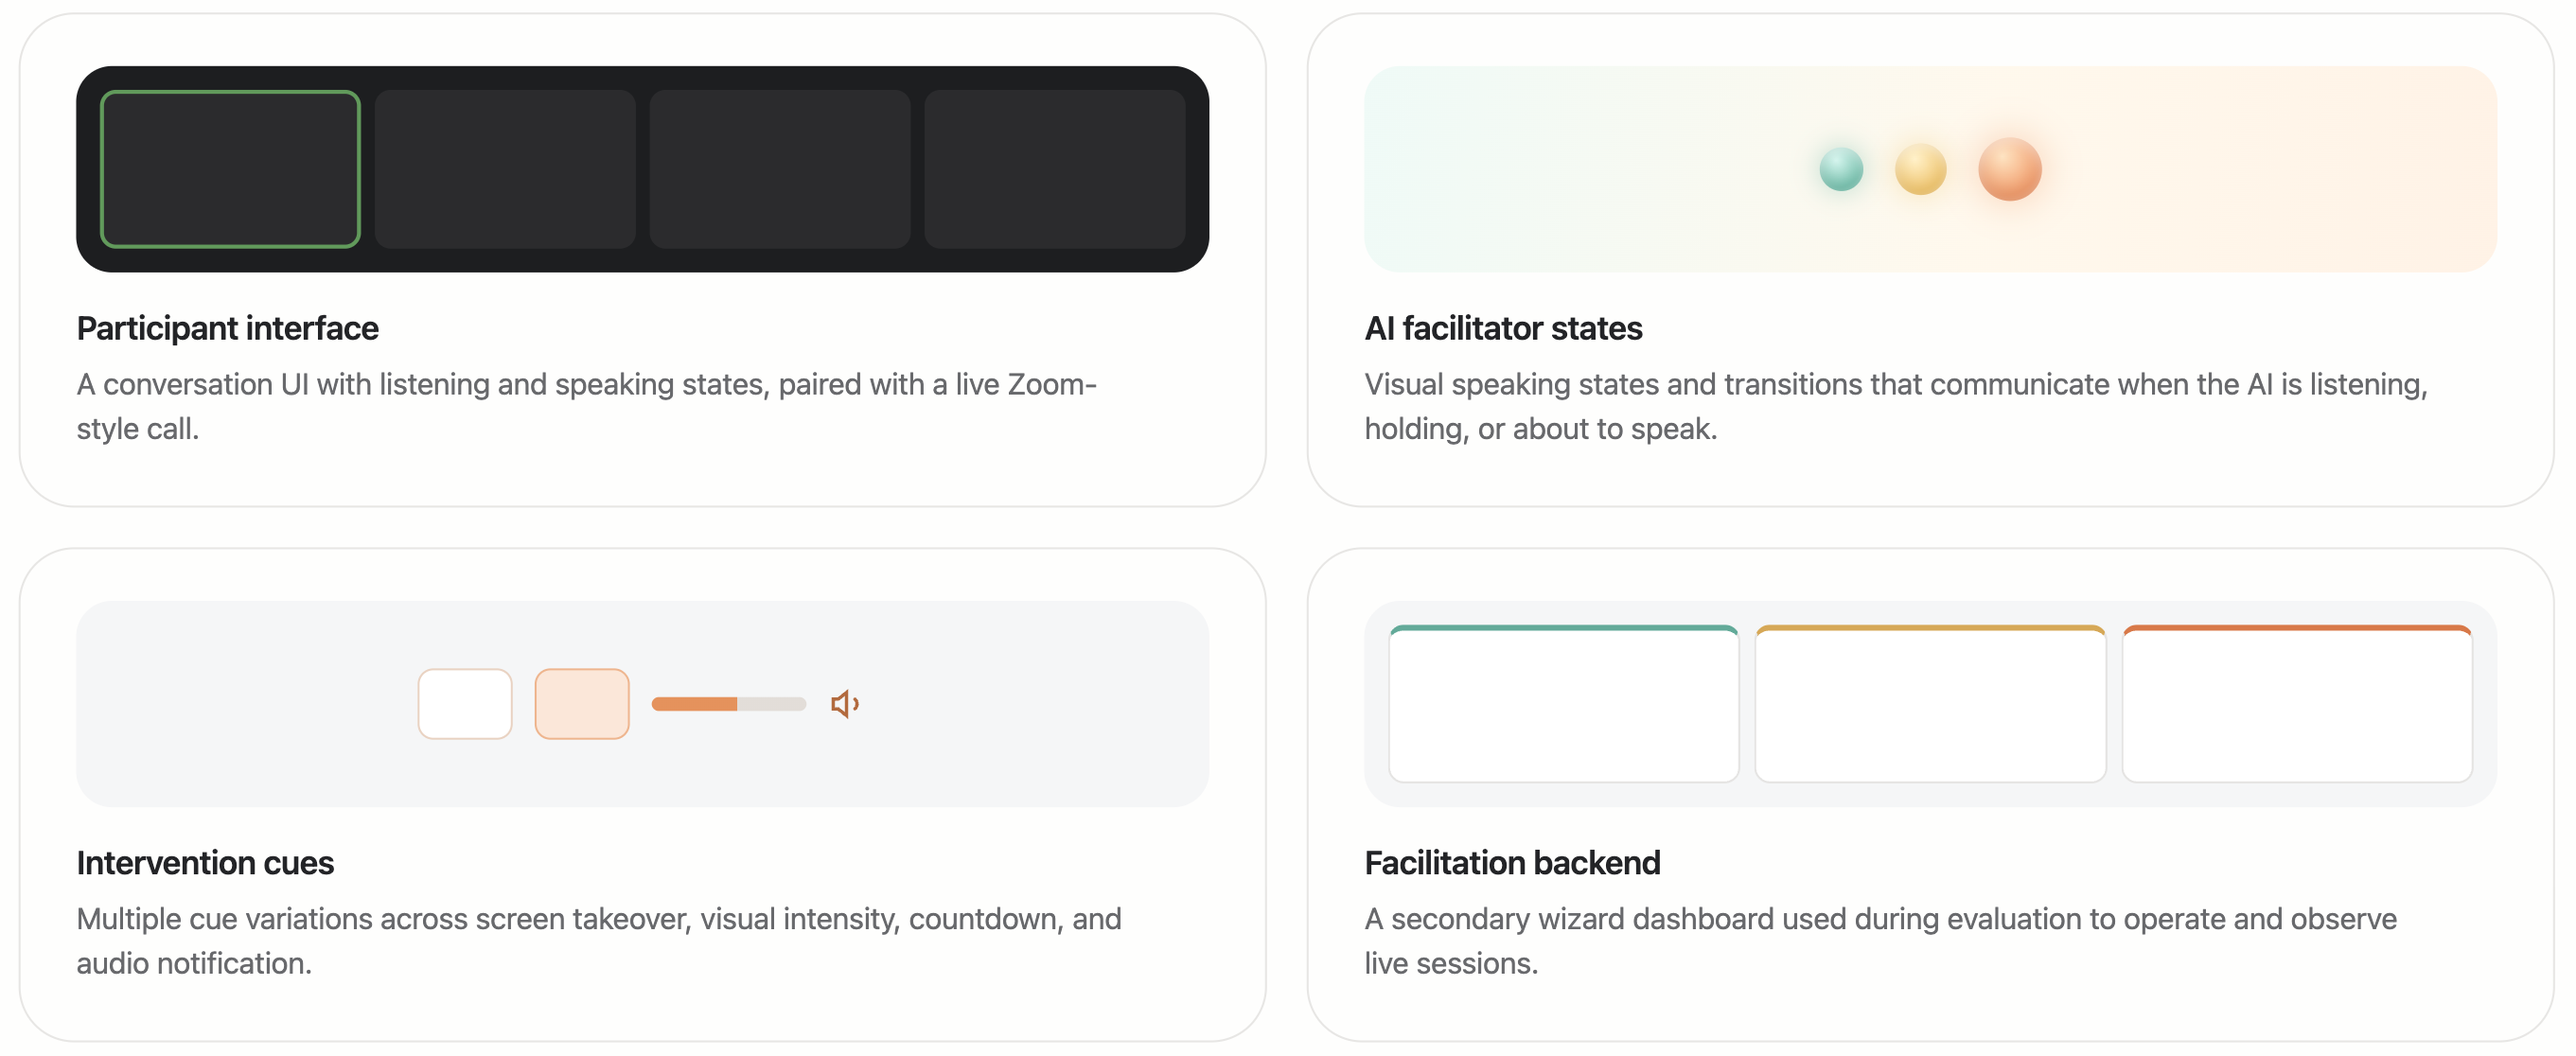
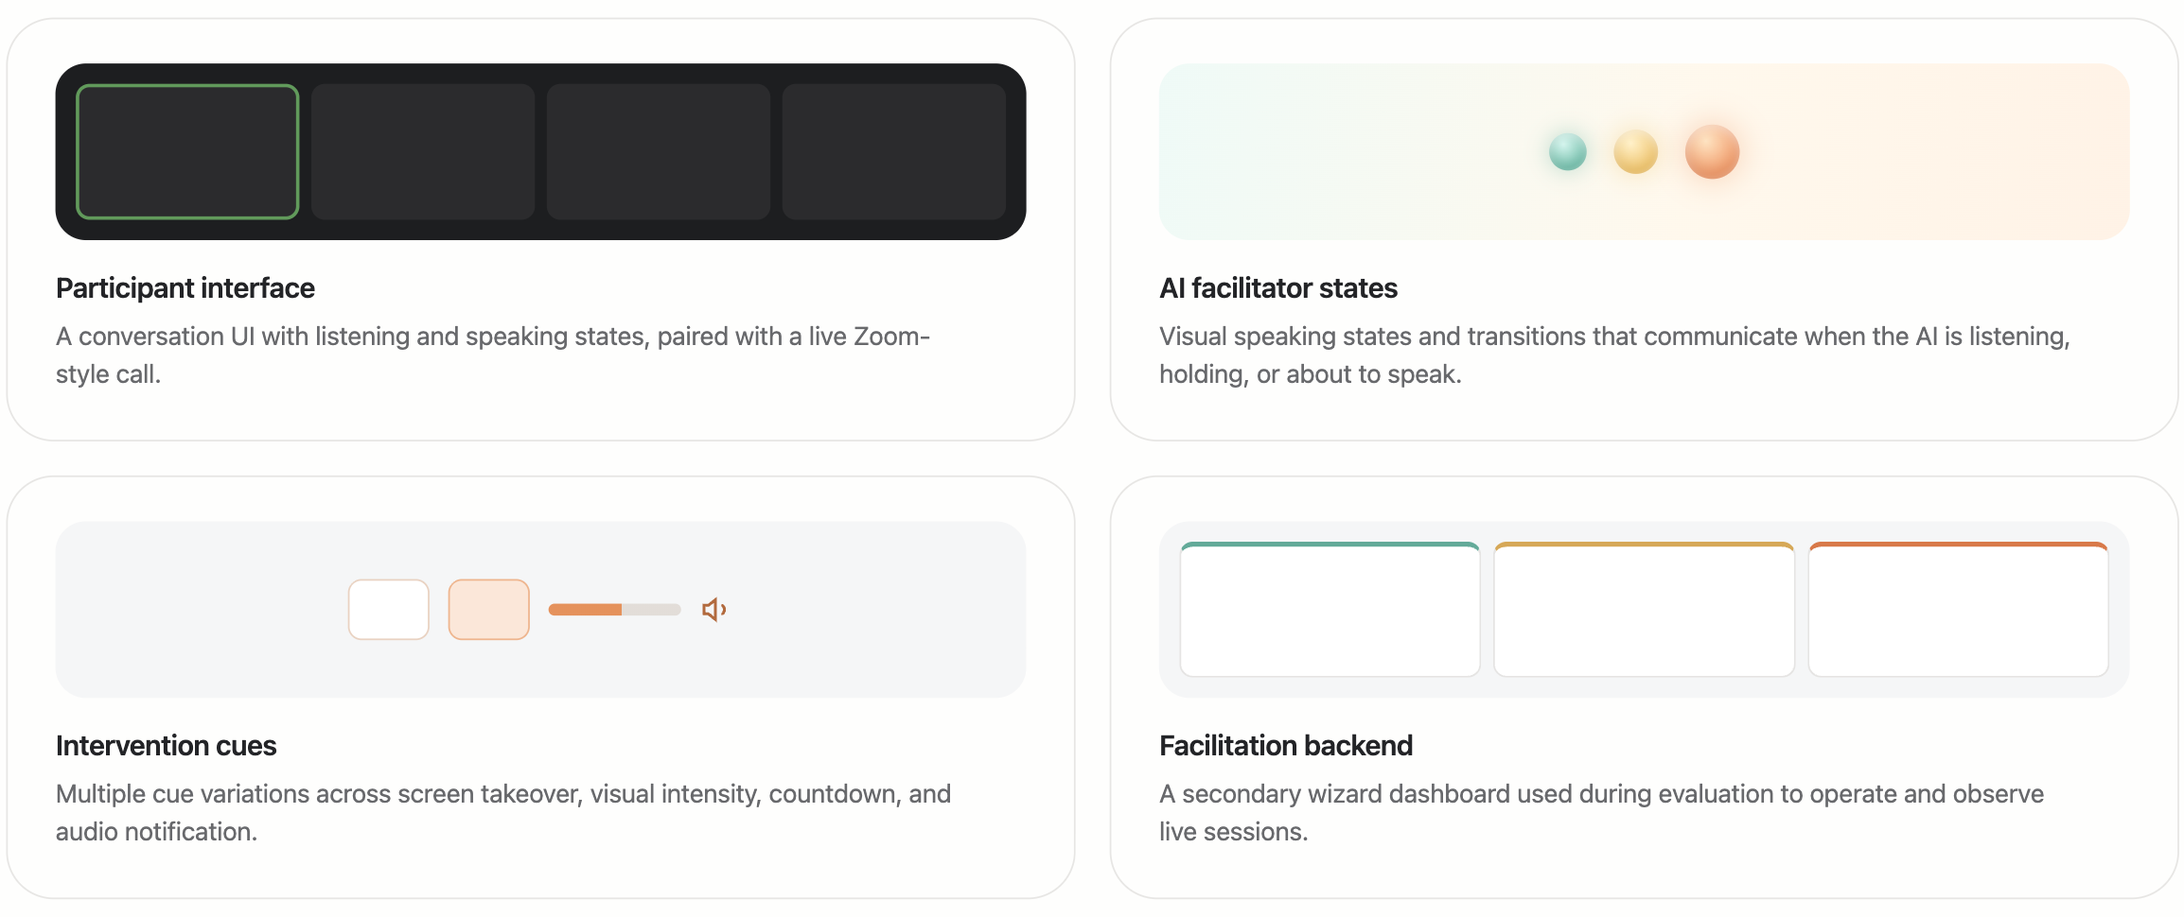
Replace CueTurn system overview graphic

diff --git a/case-studies/cueturn/index.html b/case-studies/cueturn/index.html
@@ -160,8 +160,8 @@
             alt="CueTurn system overview showing the participant interface, AI facilitator states, intervention cues, and facilitation backend"
             class="case-image-grid__img case-image-grid__img--flat"
             loading="lazy"
-            width="2722"
-            height="1116"
+            width="2308"
+            height="970"
             decoding="async"
           >
         </div>
